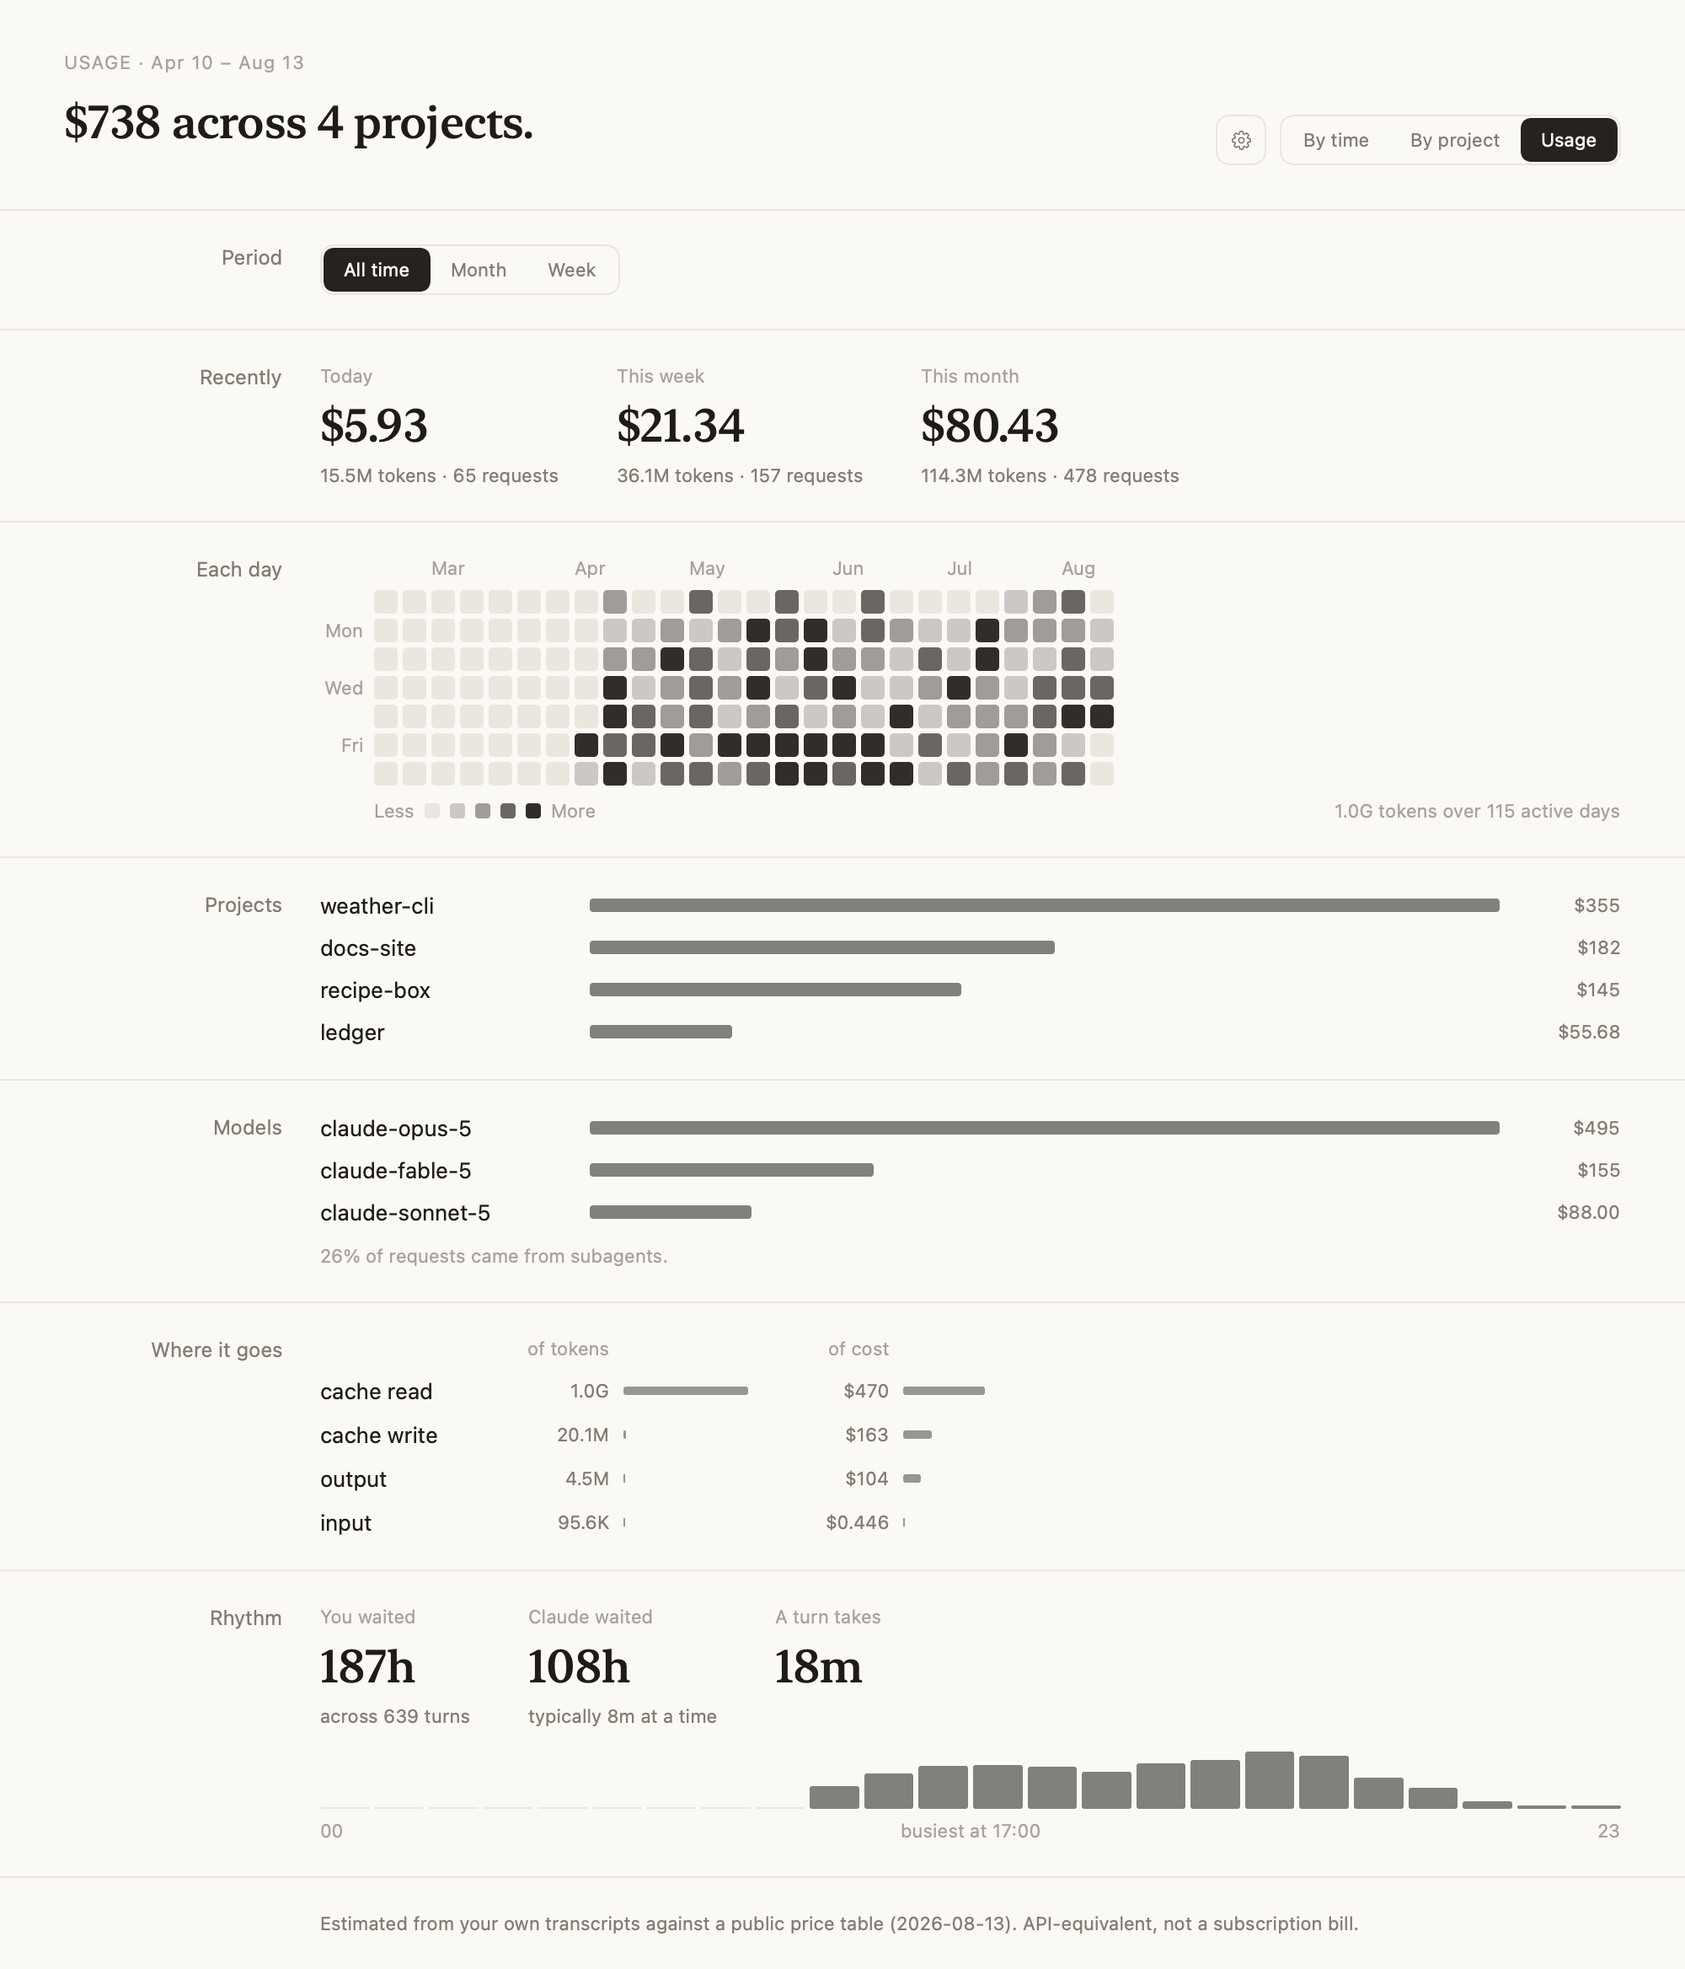
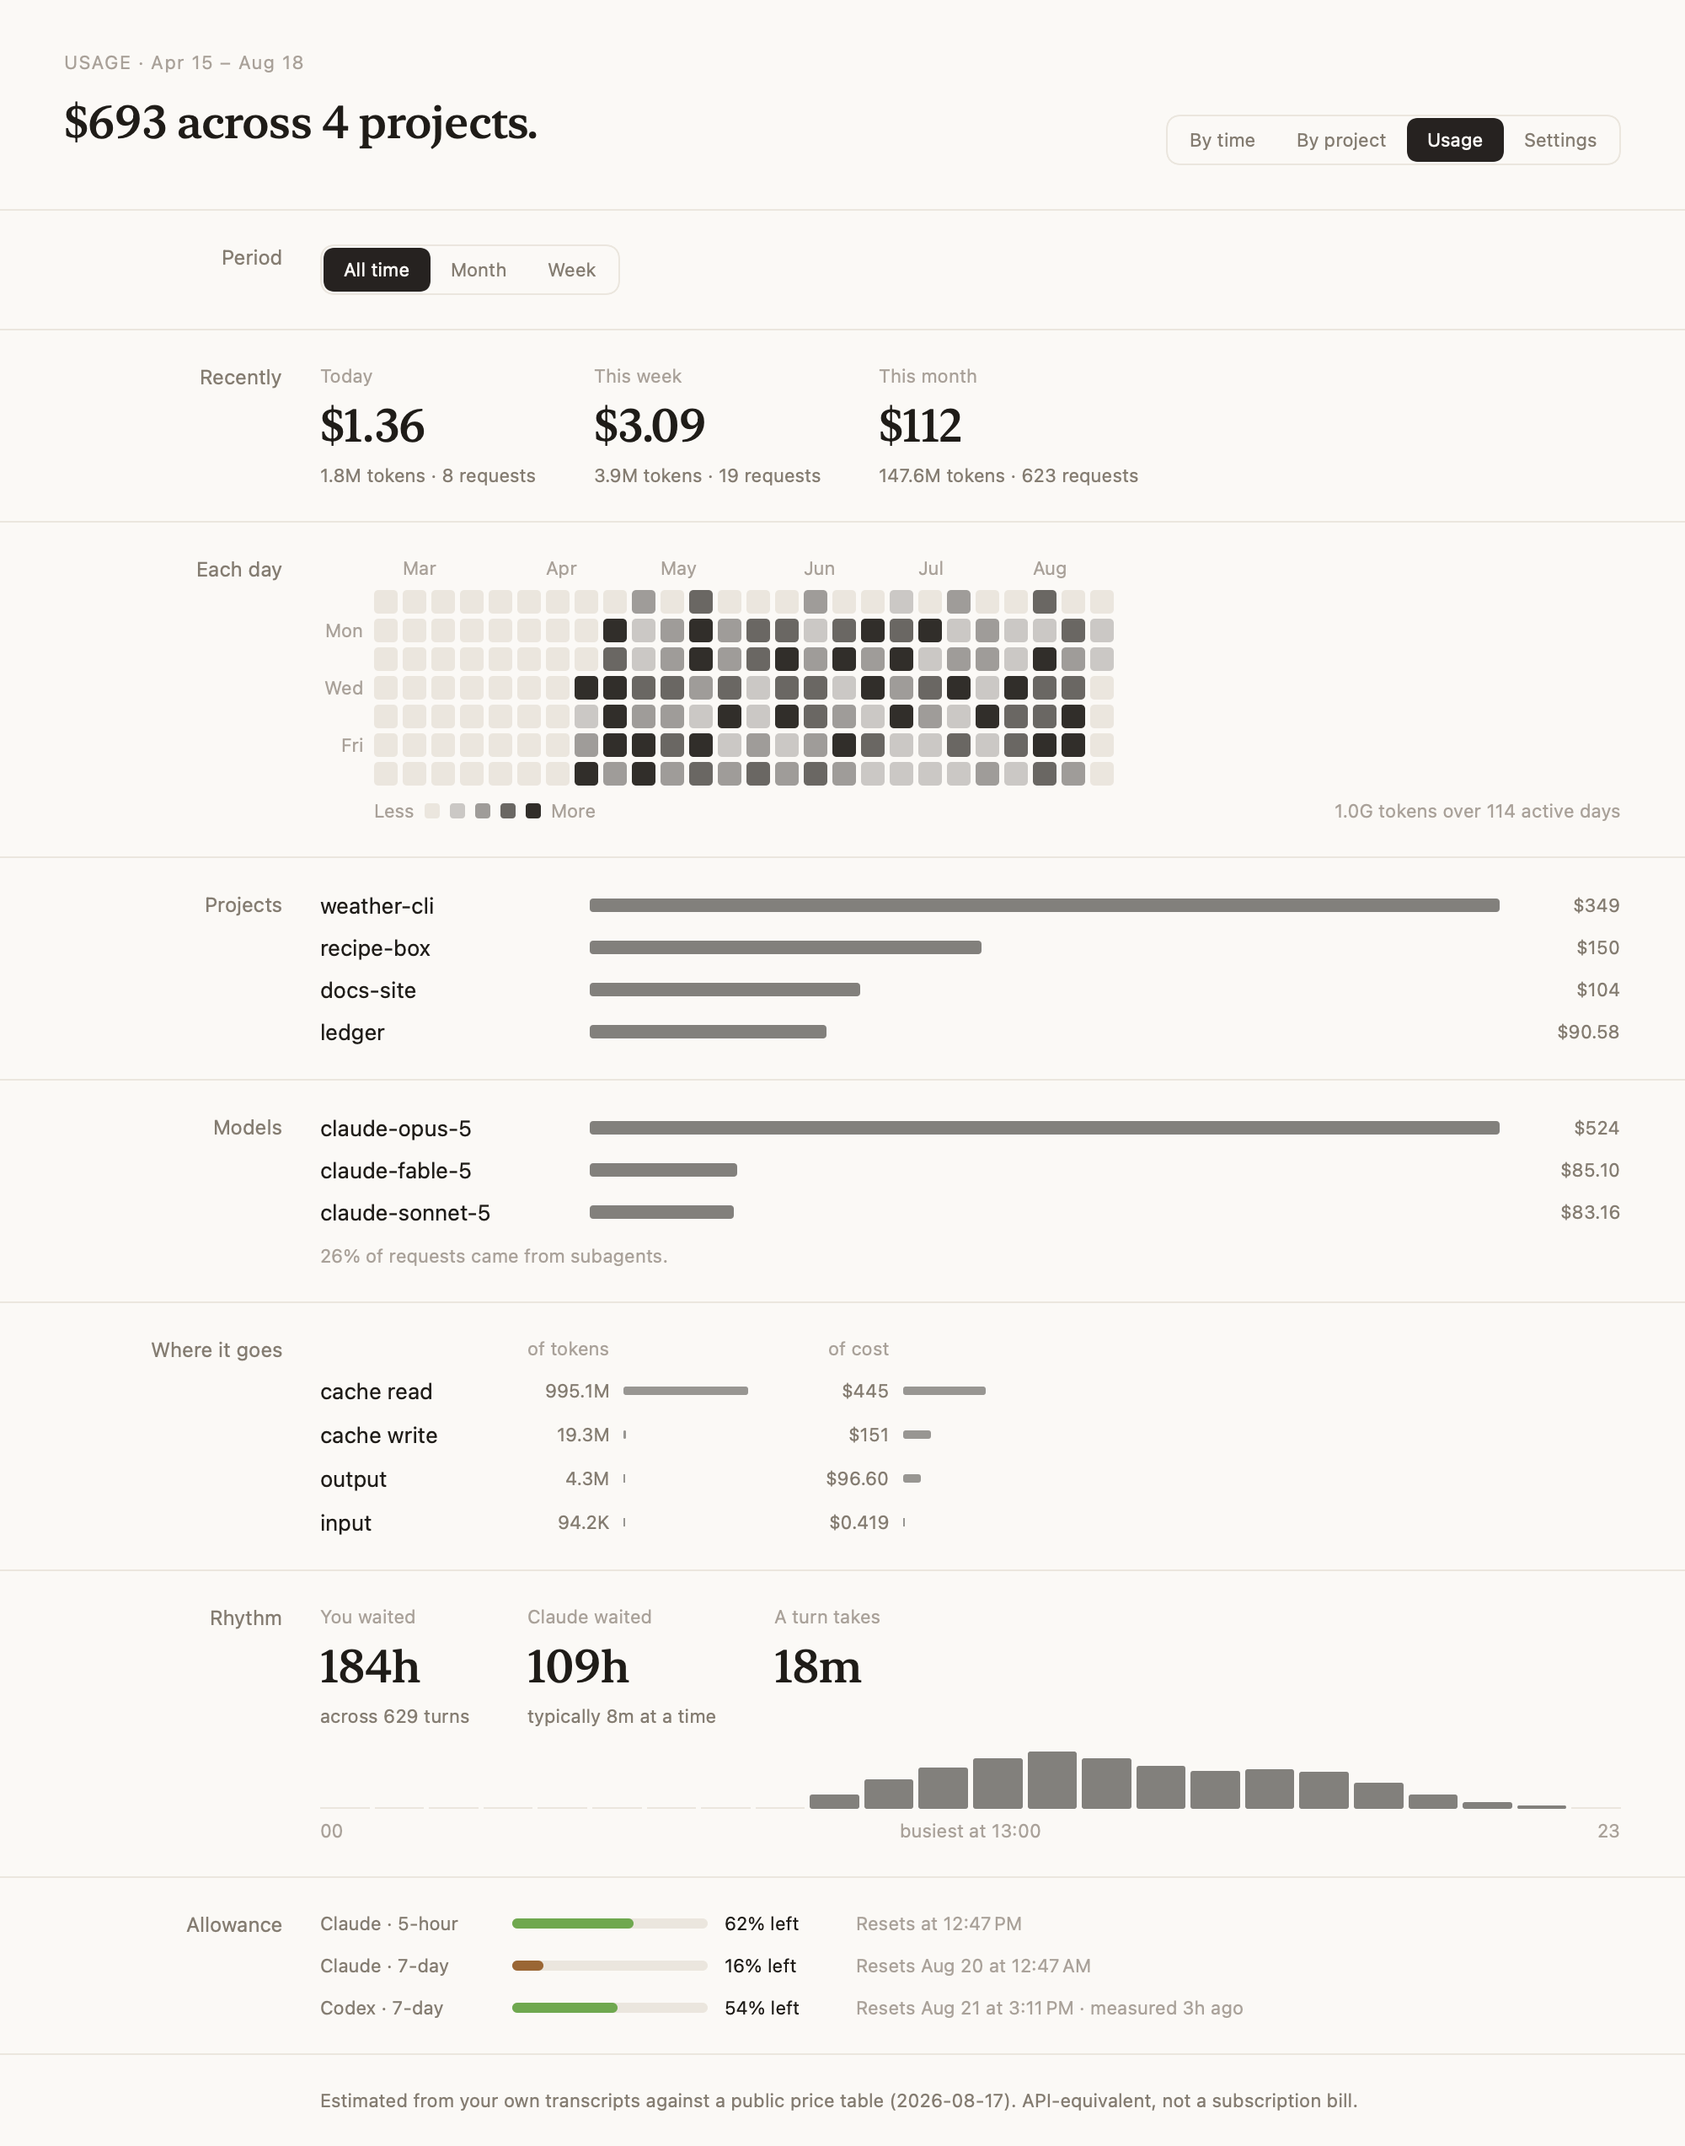
Say what 0.4 does, and say it to the person using it
The README still described a Claude-Code-only app. Two releases' worth of work
was missing from it: Codex sessions in the same inbox, and the allowance rings.

Three things in it were also no longer true. Privacy claimed `~/.claude` is
never written to, which the status-line bridge broke; the jump targets were
still listed as "VS Code, iTerm2, Terminal" after the switch to bundle ids
picked up Cursor, Windsurf and Zed; and the screenshots predated four commits
that changed the window — no rings, no Codex row, and a gear button that no
longer exists.

Rewritten in the register the app is actually used in. The engineering
evidence that justified each decision — tail-64KB, the SQLite index, the lock
file, 5-of-5 process matching, the directories searched for rate limits — is
what CLAUDE.md is for, and repeating it here answered a question nobody
reading a README is asking. Both languages, same structure, 232 and 200 lines
down to 165 and 147.

Screenshots re-rendered with --demo. The usage frames came along because the
text now promises labelled allowance bars on that tab, and the old frames
don't have them; the settings frames are deliberately untouched, since -language
en makes the language pill read "English" instead of the "Follow System" a new
user sees.

Version stamps move to 0.4.0. RenderCommand's demo release goes to 0.4.1 so
--render --demo still has something newer to draw the update badge against.

diff --git a/Sources/YourTurn/UI/RenderCommand.swift b/Sources/YourTurn/UI/RenderCommand.swift
@@ -34,7 +34,7 @@ enum RenderCommand {
             // update notice's layout only exists to look at under --demo.
             updates.loadDemo(
                 UpdateCheck.Release(
-                    version: "0.3.0",
+                    version: "0.4.1",
                     page: URL(string: "https://github.com/himynameisben/your-turn/releases/latest")!
                 )
             )

diff --git a/README.md b/README.md
@@ -1,13 +1,15 @@
 # Your Turn
 
-**An inbox for your Claude Code sessions — and a record of where your tokens went.**
+**An inbox for your Claude Code and Codex sessions — and a record of where your
+tokens went.**
 
-You're running three, five, eight Claude Code sessions in parallel — and *you* are
-now the bottleneck. Your Turn sits in the macOS menu bar and answers four questions:
-**which sessions are open? which one is waiting for me? where did it stop, and what's
-next? and which projects have been eating my tokens?**
+Three, five, eight agent sessions running at once — some Claude Code, some Codex — and
+we're the bottleneck. Your Turn sits in the macOS menu bar so we can see at a glance:
+**which sessions are still open? which one is waiting for my reply? how much allowance
+is left this week? and which projects have been eating my tokens?**
 
-It runs no LLM, reads no conversation, and treats `~/.claude` as read-only.
+Your Turn runs no LLM, reads no conversation, and collects nothing. It reads your
+session information locally, out of `~/.claude` and `~/.codex`.
 
 English | [繁體中文](README.zh-TW.md)
 
@@ -15,76 +17,96 @@ English | [繁體中文](README.zh-TW.md)
 
 ## Whose turn is it?
 
-Most Claude Code menu bar apps show a status light. Your Turn tracks something
-narrower and more useful: **whose turn it is**. A session that's running doesn't need
-you. A session that finished is done. The only thing worth a badge is a session that
-stopped and is waiting for your reply — and for that one, you want to know *what it
-said last*, not just that a light turned amber.
+Every step means waiting, so we tab away to another project — and some of those
+sessions we simply forget about, while the agent sits there waiting for the next
+instruction. Your Turn puts all of them on one screen, so you can see which one is
+waiting for your reply.
 
-Each session shows three lines:
+Each session gets three lines: the title, the last thing you said, the last thing the
+agent said. You know where it stopped without opening it.
 
-1. **The title** — enough to recognize which session this is
-2. **You** — the last thing you asked it to do
-3. **Claude** — its own summary of where it stopped and what happens next
-
-Click it, and Your Turn jumps you back to the exact place the session lives: the
-right VS Code window, the right iTerm2 tab, the right Terminal window. Finished
-sessions reopen with `claude --resume` in a fresh terminal.
+Click one and it takes you back to where that session lives — iTerm2 and Terminal
+switch to the right tab; VS Code, Cursor, Windsurf and Zed to the right window.
+Sessions that have finished reopen in a new terminal with `claude --resume` or
+`codex resume`.
 
 ## What have you been busy with?
 
 ![The Usage tab](docs/screenshots/light-usage.png)
 
 The Usage tab answers the thing you can't reconstruct from memory: **which projects
-actually took your week, and which one burned the most tokens.** Pick a month or a
-week and the whole page re-scopes to it — the project ranking, the model split, and
-how much of the day each of you spent waiting on the other.
+took your week, and which one burned the most tokens.** Pick a month or a week and the
+whole page re-scopes to it.
 
-Claude Code records token counts in its transcripts but no cost, so Your Turn works it
-out from
+Claude Code records token counts but no cost, so the dollars are worked out against
 [LiteLLM's public price table](https://github.com/BerriAI/litellm/blob/main/model_prices_and_context_window.json).
-Cross-checked against `ccusage`, the total lands within 0.3%.
+
+Codex spend isn't supported yet — on that side there's only the allowance.
 
 ### A contribution graph, for tokens
 
 ![Scoped to one month](docs/screenshots/light-usage-month.png)
 
-One square per day, shaded by how hard you leaned on Claude that day. Click a square,
-or step with the arrows, to scope the page to that month or week.
+One square per day, shaded by how hard that day went. Click a square, or step with the
+arrows, to scope the page to that month or week.
+
+## Two agents, one inbox
+
+Claude Code and Codex each keep their records in their own place, in their own format.
+Your Turn reads both into one list, so you stop checking two places.
+
+Past that they behave the same: a Codex row stars, archives and jumps back exactly like
+a Claude one. The agent name only shows up on the rows when you're actually running
+both.
+
+## How much is left?
+
+![The allowance rings, resting and hovered](docs/screenshots/light-allowance-hover.png)
+
+Three rings sit in the window's header: Claude Code's 5-hour and weekly windows, and
+Codex's weekly one. Hover for the reading; the Usage tab has the same three as labelled
+bars.
+
+They say what's **left**, not what you've used — what you actually want to know is
+whether there's room for the thing you're about to start. Below 20% they turn amber.
+
+Codex already writes its allowance into its records. Claude Code only puts it on the
+status line, so the two Claude rings stay empty until you switch on **Settings → Claude
+allowance**. That adds one `statusLine` line to `~/.claude/settings.json`; any status
+line you already have gets chained behind it rather than replaced. It's the only thing
+this app writes, and switching it off puts the file back.
 
 ## Features
 
+- **Both agents in one inbox** — Claude Code and Codex, one list
 - **Menu bar badge that only counts what needs you** — running sessions don't ring
-- **One line per session** in the menu bar panel; a full window with search and
-  by-time / by-project grouping when you want the overview
-- **Jump back to the exact window** — VS Code, iTerm2, and Terminal.app supported
+- **Click to jump back to where the session lives** — iTerm2, Terminal, VS Code,
+  Cursor, Windsurf, Zed
+- **How much allowance is left** — three rings in the header, labelled bars on the
+  Usage tab
 - **Star** the projects you care about, **archive** what you don't
-- **Usage tab** — which projects took the week, by tokens and by cost, with a heatmap
-  and month / week filters
-- **Start at login** — one switch in Settings, registered as a real macOS login item
-- **Three hand-tuned palettes** (light / dim / dark) — palettes are data, not a
-  dark-mode toggle
-- **English and 繁體中文** — follows your system language, or pick one in Settings and
-  the whole app switches over on the spot
+- **Usage tab** — which projects took the week, with a heatmap and month / week filters
+  (dollars for Claude Code only)
+- **Start at login** — one switch in Settings
+- **Three hand-tuned palettes** (light / dim / dark)
+- **English and 繁體中文** — follows your system language, or pick one in Settings
 - **Zero dependencies** — pure Swift 6 / SwiftUI, no third-party packages
 
 ## Privacy
 
-Your Turn is a **reader**. Claude Code already writes everything it needs into
-`~/.claude`; this app just reads it.
+Your Turn is a **reader**. Claude Code and Codex already write everything it needs into
+`~/.claude` and `~/.codex`; this app just reads it.
 
-- **Read-only** on `~/.claude` — it never writes there
-- The inbox reads only the **last 64KB** of each session file. The Usage tab reads
-  whole files, but only counts token numbers — it still never looks at what you or
-  Claude actually said
+- **Read-only, with one exception you switch on yourself** — the allowance switch adds
+  a single `statusLine` key to `~/.claude/settings.json` and restores the file when you
+  switch it off. Nothing else in the app writes to either directory
+- The inbox reads only the tail of each session file; the Usage tab reads whole files
+  but only counts token numbers — it still never looks at what you or the agent said
 - **No telemetry, no LLM calls** — nothing about you ever leaves your Mac
-- **Two outbound requests, both plain GETs to public URLs that send nothing but the
-  request itself:** LiteLLM's price table, so new models don't show up unpriced (only if
-  you open the Usage tab; a trimmed copy ships inside the app so the numbers work with
-  the network off), and GitHub's releases API once a day, to notice when there's a newer
-  version than the one you're running
-- Preferences (stars, archive, appearance) live in UserDefaults / Application
-  Support
+- **Two outbound requests only:** LiteLLM's price table, so new models don't show up
+  unpriced, and GitHub's releases API once a day, to notice when there's a newer
+  version. Both are plain GETs to public URLs and send nothing
+- Preferences (stars, archive, appearance) stay on your machine
 - Open source — audit it yourself
 
 The only permission it asks for is Apple Events (to switch your terminal back to a
@@ -92,7 +114,8 @@ session's window), and macOS prompts you before granting it.
 
 ## Install
 
-**Requirements:** macOS 15+, [Claude Code](https://claude.com/claude-code)
+**Requirements:** macOS 15+, and [Claude Code](https://claude.com/claude-code) and/or
+[Codex](https://github.com/openai/codex) — either one on its own is enough.
 
 - **Homebrew:**
 
@@ -109,32 +132,23 @@ session's window), and macOS prompts you before granting it.
 
   ```bash
   git clone https://github.com/himynameisben/your-turn.git && cd your-turn
-  ./Scripts/bundle.sh release
-  open build/YourTurn.app
+  ./Scripts/install.sh
   ```
 
-  The app stays in `build/`, and the icon appears in the menu bar.
-
-  If you'd rather have it in `/Applications`, `./Scripts/install.sh` does the same
-  build and then quits any running copy, replaces `/Applications/YourTurn.app`, and
-  launches it. Re-run that line to upgrade in place — and use it for the copy you
-  actually live with, since "start at login" registers whatever bundle path it was
-  switched on from, and one armed from `build/` breaks when that directory is wiped.
+  That builds it, puts it in `/Applications` and launches it; re-run the same line to
+  upgrade. To keep it in `build/` instead, use `./Scripts/bundle.sh release` — but
+  "start at login" registers whatever bundle path it was switched on from, so the copy
+  you actually live with belongs in `/Applications`.
 
 ## How it works
 
-Everything comes from files Claude Code already maintains under `~/.claude`:
+Everything comes from files the two agents already maintain: Claude Code's
+`~/.claude/projects` (session contents and token counts) and `~/.claude/sessions` (which
+process is running which session); Codex's `~/.codex/state_*.sqlite` (its thread index),
+`sessions/` (the transcripts) and `thread-writer-locks/` (which thread is running).
 
-| Path | What it provides |
-|---|---|
-| `projects/<slug>/<uuid>.jsonl` | session title, your last prompt, Claude's away summary, timestamps, and the token counts for every request |
-| `projects/<slug>/<uuid>/subagents/*.jsonl` | the same, for everything a session fanned out to |
-| `sessions/<pid>.json` | live registry: which process runs which session, and its status |
-| `ide/<port>.lock` | which VS Code window a session belongs to |
-
-The interesting engineering decisions — why tail-64KB, why mtime lies, how live
-processes are matched to sessions, and why the same `requestId` can report different
-token counts on different lines — are documented with measured numbers in
+Why only the tail of a file gets read, why mtime can't be trusted, and how live
+processes are matched to sessions are all documented with measured numbers in
 [CLAUDE.md](CLAUDE.md) and the source comments.
 
 Screenshots on this page are rendered from invented data with
